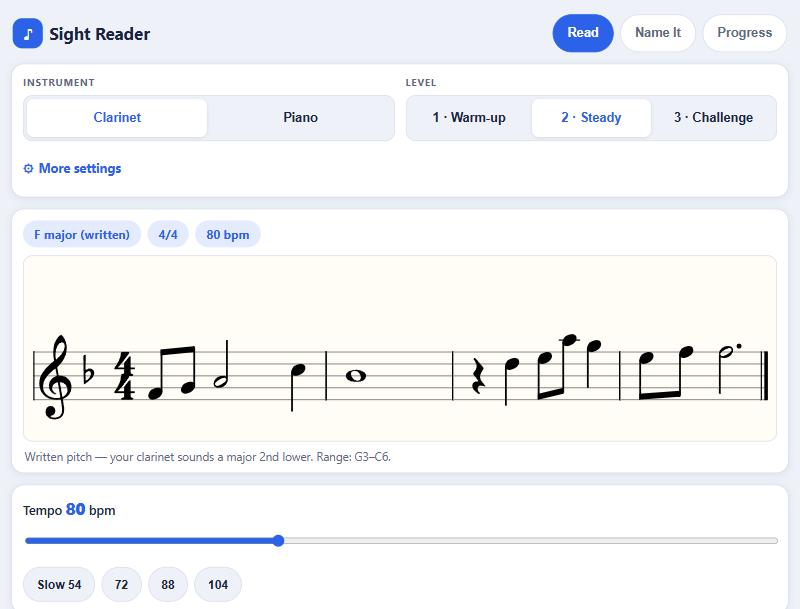
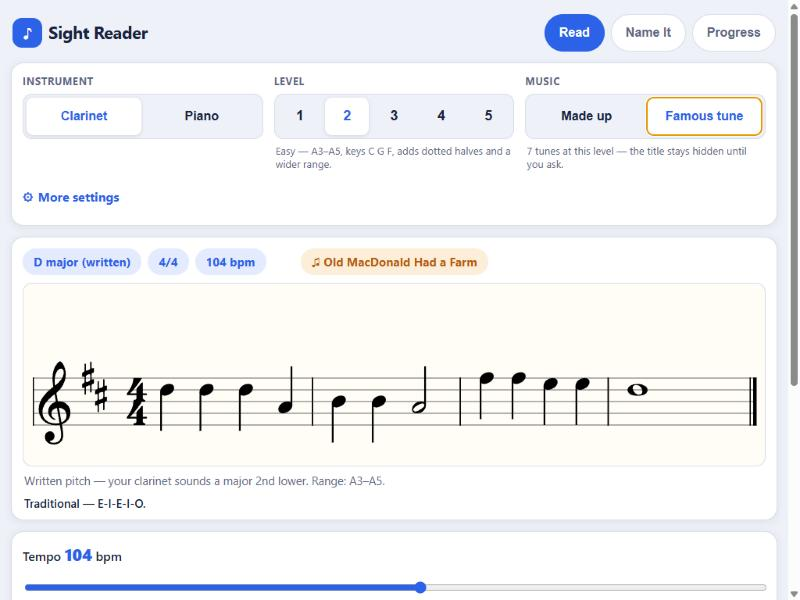
Show the famous-tune mode in the README screenshot

diff --git a/README.md b/README.md
@@ -8,7 +8,7 @@ and a progress page that remembers how practice is going.
 Plain HTML, CSS and JavaScript — no build step, no install, no account, no network
 calls. Everything it saves stays in the browser on that device.
 
-![The reading screen: four bars in F major for clarinet](docs/screenshot.jpg)
+![The reading screen, with a famous tune just revealed as Old MacDonald Had a Farm](docs/screenshot.jpg)
 
 ## Running it
 
